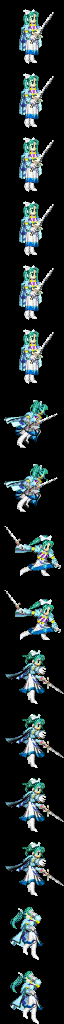
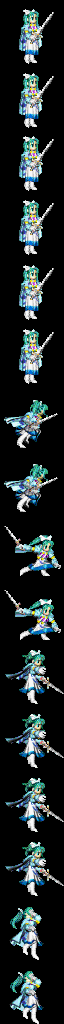
Idle breathing bob for Sarah, Kegare and Ash Jenna (frames 2-3 one pixel higher, as Heart)
Claude-Session: https://claude.ai/code/session_01DQWC7xTsxVudAbpPbiVFX3

diff --git a/tools/dark_story/build_ash_jenna_art.py b/tools/dark_story/build_ash_jenna_art.py
@@ -65,7 +65,8 @@ for index in range(FRAMES):
     side = round(FRAME * SCALE)
     small = frame.resize((side, side), Image.Resampling.LANCZOS)
     frame = Image.new("RGBA", (FRAME, FRAME), (0, 0, 0, 0))
-    frame.alpha_composite(small, ((FRAME - side) // 2, FRAME - side))
+    rise = 1 if index in (2, 3) else 0   # idle breathing: frames 2-3 one pixel higher
+    frame.alpha_composite(small, ((FRAME - side) // 2, FRAME - side - rise))
     sheet.alpha_composite(frame, (0, index * FRAME))
 
 data = np.asarray(sheet)

diff --git a/tools/dark_story/build_kegare_art.py b/tools/dark_story/build_kegare_art.py
@@ -75,7 +75,8 @@ for index in range(FRAMES):
     side = round(FRAME * SCALE)
     small = frame.resize((side, side), Image.Resampling.LANCZOS)
     frame = Image.new("RGBA", (FRAME, FRAME), (0, 0, 0, 0))
-    frame.alpha_composite(small, ((FRAME - side) // 2, FRAME - side))
+    rise = 1 if index in (2, 3) else 0   # idle breathing: frames 2-3 one pixel higher
+    frame.alpha_composite(small, ((FRAME - side) // 2, FRAME - side - rise))
     sheet.alpha_composite(frame, (0, index * FRAME))
 
 data = np.asarray(sheet)

diff --git a/tools/dark_story/build_sarah_art.py b/tools/dark_story/build_sarah_art.py
@@ -62,7 +62,8 @@ for index in range(FRAMES):
         raise ValueError(f"{pose} must be {FRAME}x{FRAME}")
     bottom = src.getchannel("A").getbbox()[3]
     frame = Image.new("RGBA", (FRAME, FRAME), (0, 0, 0, 0))
-    frame.alpha_composite(src, (0, FRAME - bottom))
+    rise = 1 if index in (2, 3) else 0   # idle breathing: frames 2-3 one pixel higher
+    frame.alpha_composite(src, (0, FRAME - bottom - rise))
     sheet.alpha_composite(frame, (0, index * FRAME))
 
 data = np.asarray(sheet)
